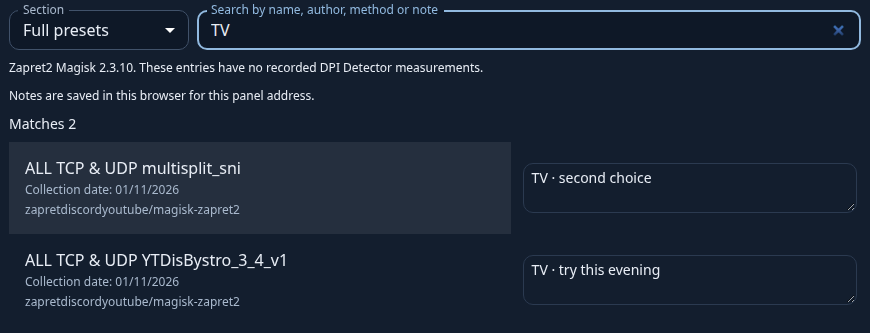
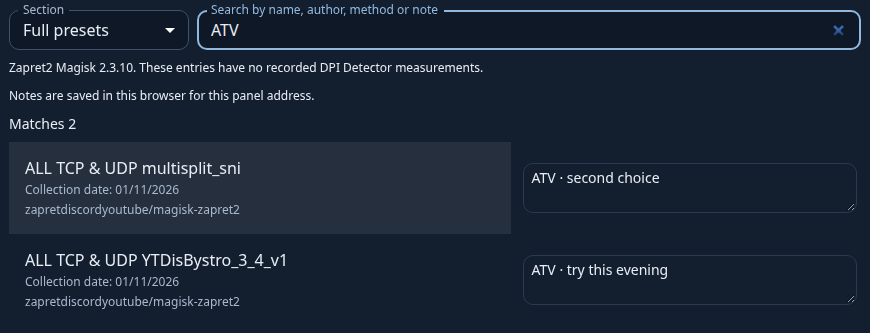
Simplify project navigation and use Android TV box examples
Keep all project and donation links, update both screenshot guides and synchronize the source inventories. [skip ci]

Changed region(s): [[0.5897, 0.7808, 0.7759, 0.8408], [0.5897, 0.5105, 0.7759, 0.5706], [0.2172, 0.0601, 0.2793, 0.1201]]

diff --git a/source/project/experimental/device-profiles/device-profiles-lab.html b/source/project/experimental/device-profiles/device-profiles-lab.html
@@ -45,7 +45,7 @@
     <details id="library-section" class="panel library-panel">
       <summary>Библиотека стратегий</summary>
       <p class="muted">Сохраните текущую стратегию, загрузите единый JSON-экспорт или выберите профиль из нашего каталога. У каждого сохранённого варианта свои ресурсы и auto.list. DNS остаётся общим для всех устройств.</p>
-      <label class="field-label">Название стратегии<input id="strategy-name" maxlength="64" placeholder="Например, для телевизора"></label>
+      <label class="field-label">Название стратегии<input id="strategy-name" maxlength="64" placeholder="Например, для Android-приставки"></label>
       <div class="runtime-actions"><button id="capture-current" type="button">Сохранить текущую стратегию</button></div>
       <label class="field-label">JSON-экспорт<input id="strategy-file" type="file" accept=".json,application/json"></label>
       <label class="checkbox-label"><input id="trust-lua" type="checkbox">Доверять Lua из выбранного файла или каталога</label>
@@ -81,7 +81,7 @@
         <details id="manual-section">
           <summary>Добавить вручную по IP или MAC</summary>
           <form id="manual-form" class="manual-form">
-            <label>Название<input id="manual-name" name="name" maxlength="64" required placeholder="Например, телевизор"></label>
+            <label>Название<input id="manual-name" name="name" maxlength="64" required placeholder="Например, Android-приставка"></label>
             <label>IP-адрес<input id="manual-ip" name="ip" autocomplete="off" spellcheck="false" placeholder="IPv4 или IPv6"></label>
             <label>MAC-адрес<input id="manual-mac" name="mac" autocomplete="off" spellcheck="false" placeholder="aa:bb:cc:dd:ee:ff"></label>
             <button type="submit">Добавить устройство</button>

diff --git a/README.en.md b/README.en.md
@@ -2,15 +2,22 @@
 
 [Русский](README.md)
 
-**Install** · [Download Build 100](https://github.com/madworldpay/nfqws2-asus-community/releases/tag/build100) · [Choose a package](DOWNLOADS.en.md) · [Quick start](QUICKSTART.en.md) · [ASUS / Entware](INSTALL.en.md) · [OpenWrt](OPENWRT.en.md) · [Changelog](CHANGELOG.md)
+[Download Build 100](https://github.com/madworldpay/nfqws2-asus-community/releases/tag/build100) · [Guides](#project-guides) · [Telegram chat](https://t.me/nfqws2AsusCommunityChat) · [Donate](#project-support)
+
+<details>
+<summary>All project links</summary>
+
+**Install** · [Choose a package](DOWNLOADS.en.md) · [Quick start](QUICKSTART.en.md) · [ASUS / Entware](INSTALL.en.md) · [OpenWrt](OPENWRT.en.md) · [Changelog](CHANGELOG.md)
 
 **Panel** · [Import](IMPORT.en.md) · [Strategies](PRESETS.en.md) · [Device profiles](docs/DEVICE-PROFILES.en.md) · [Generator (beta)](docs/LOCAL-STRATEGY-PICKER.en.md) · [SmartDNS](SMARTDNS.en.md) · [MTProto](#telegram-proxy-guide) · [DPI Detector](DPI-DETECTOR.en.md)
 
-**Guides** · [Compatibility](COMPATIBILITY.en.md) · [Updates](PACKAGE-UPDATES.en.md) · [Troubleshooting](DIAGNOSTICS.en.md) · [Screenshots](SCREENSHOTS.en.md#build100) · [All guides](#project-guides)
+**Guides** · [Compatibility](COMPATIBILITY.en.md) · [Updates](PACKAGE-UPDATES.en.md) · [Troubleshooting](DIAGNOSTICS.en.md) · [Screenshots](SCREENSHOTS.en.md#build100)
 
-**Contact** · [Telegram community chat](https://t.me/nfqws2AsusCommunityChat) · [Message Frank](https://t.me/Profy13) · [Report an issue](https://github.com/madworldpay/nfqws2-asus-community/issues)
+**Contact** · [Message Frank](https://t.me/Profy13) · [Report an issue](https://github.com/madworldpay/nfqws2-asus-community/issues)
 
 **Donate** · [YooMoney](https://yoomoney.ru/to/4100119670967911) · [Boosty](https://boosty.to/madworldpay/donate) · [TRON (USDT)](#wallet-tron) · [Ethereum](#wallet-ethereum) · [Solana](#wallet-solana) · [Bitcoin](#wallet-bitcoin)
+
+</details>
 
 ![NFQWS2 ASUS Community](images/nfqws2-asus-community.png)
 
@@ -23,7 +30,7 @@
 Start with **Import profile**: choose a ready-made cloud strategy, your own JSON
 or NFQWS2 text from Keenetic. Review its blocks, lists and blobs in the preview,
 save the changes and select home-network devices. NFQWS2 processes traffic on
-the router; your TV, phone or PC does not need a separate client.
+the router; your Android TV box, phone or PC does not need a separate client.
 
 Test video playback, seeking and voice calls separately.
 
@@ -36,7 +43,7 @@ or a native OpenWrt package. Installing the application itself does not require 
 
 **Strategy generator (beta).** Choose 2–10 runs and compare results in 1–6 columns or let them fit the window. The panel restores the original settings afterwards. Applying and exporting are separate actions. [Panel workflow](docs/LOCAL-STRATEGY-PICKER.en.md).
 
-**Different strategies for different devices.** Common remains the default. Devices lets you select a separate strategy for a TV, phone or PC, order priorities and review assignments before applying. [Setup guide](docs/DEVICE-PROFILES.en.md) · [real screenshots](SCREENSHOTS.en.md#build99-device-profiles). The device profiles page currently uses Russian labels.
+**Different strategies for different devices.** Common remains the default. Devices lets you select a separate strategy for an Android TV box, phone or PC, order priorities and review assignments before applying. [Setup guide](docs/DEVICE-PROFILES.en.md) · [real screenshots](SCREENSHOTS.en.md#build99-device-profiles). The device profiles page currently uses Russian labels.
 
 **The built-in DPI Detector helps check the result.** Repeat the same tests before and after changing a strategy, save TXT to your PC or phone and check the actual services. [How to use it](DPI-DETECTOR.en.md) · [large real comparison screenshots](docs/DETECTOR-COMPARISON.en.md).
 
@@ -168,11 +175,11 @@ Mode supplies domain lists to the main TCP and QUIC blocks. Separate UDP blocks,
 | “Process traffic” | Devices covered |
 | --- | --- |
 | **All devices** | All clients whose traffic passes through the configured router |
-| **Only listed devices** | For example, only the TV and phone whose local IP addresses you added |
+| **Only listed devices** | For example, only the Android TV box and phone whose local IP addresses you added |
 | **All except listed devices** | All other clients; added IP addresses are excluded from processing |
 
-**Example:** `List` + **Only listed devices** + the TV's IP address —
-the TV gets DPI processing for listed domains; other devices use the network without NFQWS2 processing.
+**Example:** `List` + **Only listed devices** + the Android TV box’s IP address —
+the Android TV box gets DPI processing for listed domains; other devices use the network without NFQWS2 processing.
 
 You can enter individual IP addresses or a subnet. Separate addresses with spaces;
 reserve IP addresses in DHCP for selected devices. IPv6 is enabled and selected separately.
@@ -298,6 +305,8 @@ for a reproducible bug report. You can send settings and diagnostics to the deve
 after reviewing them in the panel preview.
 
 An independent community port. Packages are free, and participation is voluntary.
+
+<a id="project-support"></a>
 
 ## Support the project
 

diff --git a/source/documentation/README.en.md b/source/documentation/README.en.md
@@ -2,15 +2,22 @@
 
 [Русский](README.md)
 
-**Install** · [Download Build 100](https://github.com/madworldpay/nfqws2-asus-community/releases/tag/build100) · [Choose a package](DOWNLOADS.en.md) · [Quick start](QUICKSTART.en.md) · [ASUS / Entware](INSTALL.en.md) · [OpenWrt](OPENWRT.en.md) · [Changelog](CHANGELOG.md)
+[Download Build 100](https://github.com/madworldpay/nfqws2-asus-community/releases/tag/build100) · [Guides](#project-guides) · [Telegram chat](https://t.me/nfqws2AsusCommunityChat) · [Donate](#project-support)
+
+<details>
+<summary>All project links</summary>
+
+**Install** · [Choose a package](DOWNLOADS.en.md) · [Quick start](QUICKSTART.en.md) · [ASUS / Entware](INSTALL.en.md) · [OpenWrt](OPENWRT.en.md) · [Changelog](CHANGELOG.md)
 
 **Panel** · [Import](IMPORT.en.md) · [Strategies](PRESETS.en.md) · [Device profiles](docs/DEVICE-PROFILES.en.md) · [Generator (beta)](docs/LOCAL-STRATEGY-PICKER.en.md) · [SmartDNS](SMARTDNS.en.md) · [MTProto](#telegram-proxy-guide) · [DPI Detector](DPI-DETECTOR.en.md)
 
-**Guides** · [Compatibility](COMPATIBILITY.en.md) · [Updates](PACKAGE-UPDATES.en.md) · [Troubleshooting](DIAGNOSTICS.en.md) · [Screenshots](SCREENSHOTS.en.md#build100) · [All guides](#project-guides)
+**Guides** · [Compatibility](COMPATIBILITY.en.md) · [Updates](PACKAGE-UPDATES.en.md) · [Troubleshooting](DIAGNOSTICS.en.md) · [Screenshots](SCREENSHOTS.en.md#build100)
 
-**Contact** · [Telegram community chat](https://t.me/nfqws2AsusCommunityChat) · [Message Frank](https://t.me/Profy13) · [Report an issue](https://github.com/madworldpay/nfqws2-asus-community/issues)
+**Contact** · [Message Frank](https://t.me/Profy13) · [Report an issue](https://github.com/madworldpay/nfqws2-asus-community/issues)
 
 **Donate** · [YooMoney](https://yoomoney.ru/to/4100119670967911) · [Boosty](https://boosty.to/madworldpay/donate) · [TRON (USDT)](#wallet-tron) · [Ethereum](#wallet-ethereum) · [Solana](#wallet-solana) · [Bitcoin](#wallet-bitcoin)
+
+</details>
 
 ![NFQWS2 ASUS Community](images/nfqws2-asus-community.png)
 
@@ -23,7 +30,7 @@
 Start with **Import profile**: choose a ready-made cloud strategy, your own JSON
 or NFQWS2 text from Keenetic. Review its blocks, lists and blobs in the preview,
 save the changes and select home-network devices. NFQWS2 processes traffic on
-the router; your TV, phone or PC does not need a separate client.
+the router; your Android TV box, phone or PC does not need a separate client.
 
 Test video playback, seeking and voice calls separately.
 
@@ -36,7 +43,7 @@ or a native OpenWrt package. Installing the application itself does not require 
 
 **Strategy generator (beta).** Choose 2–10 runs and compare results in 1–6 columns or let them fit the window. The panel restores the original settings afterwards. Applying and exporting are separate actions. [Panel workflow](docs/LOCAL-STRATEGY-PICKER.en.md).
 
-**Different strategies for different devices.** Common remains the default. Devices lets you select a separate strategy for a TV, phone or PC, order priorities and review assignments before applying. [Setup guide](docs/DEVICE-PROFILES.en.md) · [real screenshots](SCREENSHOTS.en.md#build99-device-profiles). The device profiles page currently uses Russian labels.
+**Different strategies for different devices.** Common remains the default. Devices lets you select a separate strategy for an Android TV box, phone or PC, order priorities and review assignments before applying. [Setup guide](docs/DEVICE-PROFILES.en.md) · [real screenshots](SCREENSHOTS.en.md#build99-device-profiles). The device profiles page currently uses Russian labels.
 
 **The built-in DPI Detector helps check the result.** Repeat the same tests before and after changing a strategy, save TXT to your PC or phone and check the actual services. [How to use it](DPI-DETECTOR.en.md) · [large real comparison screenshots](docs/DETECTOR-COMPARISON.en.md).
 
@@ -168,11 +175,11 @@ Mode supplies domain lists to the main TCP and QUIC blocks. Separate UDP blocks,
 | “Process traffic” | Devices covered |
 | --- | --- |
 | **All devices** | All clients whose traffic passes through the configured router |
-| **Only listed devices** | For example, only the TV and phone whose local IP addresses you added |
+| **Only listed devices** | For example, only the Android TV box and phone whose local IP addresses you added |
 | **All except listed devices** | All other clients; added IP addresses are excluded from processing |
 
-**Example:** `List` + **Only listed devices** + the TV's IP address —
-the TV gets DPI processing for listed domains; other devices use the network without NFQWS2 processing.
+**Example:** `List` + **Only listed devices** + the Android TV box’s IP address —
+the Android TV box gets DPI processing for listed domains; other devices use the network without NFQWS2 processing.
 
 You can enter individual IP addresses or a subnet. Separate addresses with spaces;
 reserve IP addresses in DHCP for selected devices. IPv6 is enabled and selected separately.
@@ -298,6 +305,8 @@ for a reproducible bug report. You can send settings and diagnostics to the deve
 after reviewing them in the panel preview.
 
 An independent community port. Packages are free, and participation is voluntary.
+
+<a id="project-support"></a>
 
 ## Support the project
 

diff --git a/SCREENSHOTS.md b/SCREENSHOTS.md
@@ -10,7 +10,7 @@
 
 ## Build 100
 
-В примере из библиотеки поиск по слову «Телевизор» нашёл две стратегии с личными заметками.
+Поиск по «ATV» находит две стратегии с заметками для Android-приставки.
 
 ![Поиск по личным заметкам в импорте](images/screenshots/build100-import-notes-ru.png)
 
@@ -60,7 +60,7 @@
 
 **Общий режим** остаётся по умолчанию. В **«По устройствам»** можно назначить стратегии отдельным клиентам, менять приоритеты и использовать текущую или стоковую стратегию. Библиотека добавляет собственные копии, JSON с ресурсами и профили каталога. DNS остаётся общим. [Пошаговая инструкция и лимиты](docs/DEVICE-PROFILES.md).
 
-На первом снимке — реальный общий режим. На примере с телевизором и телефоном показан **несохранённый черновик** с условными названиями и адресами. Предпросмотр проверен, но «Сохранить черновик» и «Применить сохранённый режим» для примера не нажимались: рабочий режим остался общим, служба — выключенной. Это пример интерфейса, а не доказательство подключения этих устройств или результата обхода.
+На первом снимке — реальный общий режим. На примере с двумя устройствами показан **несохранённый черновик** с условными названиями и адресами. Предпросмотр проверен, но «Сохранить черновик» и «Применить сохранённый режим» для примера не нажимались: рабочий режим остался общим, служба — выключенной. Это пример интерфейса, а не доказательство подключения этих устройств или результата обхода.
 
 <details>
 <summary>Показать общий режим и библиотеку стратегий</summary>
@@ -74,7 +74,7 @@
 <details>
 <summary>Показать разные стратегии, приоритеты и предпросмотр примера</summary>
 
-[![Build 99: несохранённый пример стратегий для телевизора и телефона](images/screenshots/build99-device-profiles-draft-ru.jpg)](images/screenshots/build99-device-profiles-draft-ru.jpg)
+[![Build 99: несохранённый пример стратегий для двух устройств](images/screenshots/build99-device-profiles-draft-ru.jpg)](images/screenshots/build99-device-profiles-draft-ru.jpg)
 
 [![Build 99: предпросмотр назначений без применения](images/screenshots/build99-device-profiles-preview-ru.jpg)](images/screenshots/build99-device-profiles-preview-ru.jpg)
 

diff --git a/source/documentation/SCREENSHOTS.md b/source/documentation/SCREENSHOTS.md
@@ -10,7 +10,7 @@
 
 ## Build 100
 
-В примере из библиотеки поиск по слову «Телевизор» нашёл две стратегии с личными заметками.
+Поиск по «ATV» находит две стратегии с заметками для Android-приставки.
 
 ![Поиск по личным заметкам в импорте](images/screenshots/build100-import-notes-ru.png)
 
@@ -60,7 +60,7 @@
 
 **Общий режим** остаётся по умолчанию. В **«По устройствам»** можно назначить стратегии отдельным клиентам, менять приоритеты и использовать текущую или стоковую стратегию. Библиотека добавляет собственные копии, JSON с ресурсами и профили каталога. DNS остаётся общим. [Пошаговая инструкция и лимиты](docs/DEVICE-PROFILES.md).
 
-На первом снимке — реальный общий режим. На примере с телевизором и телефоном показан **несохранённый черновик** с условными названиями и адресами. Предпросмотр проверен, но «Сохранить черновик» и «Применить сохранённый режим» для примера не нажимались: рабочий режим остался общим, служба — выключенной. Это пример интерфейса, а не доказательство подключения этих устройств или результата обхода.
+На первом снимке — реальный общий режим. На примере с двумя устройствами показан **несохранённый черновик** с условными названиями и адресами. Предпросмотр проверен, но «Сохранить черновик» и «Применить сохранённый режим» для примера не нажимались: рабочий режим остался общим, служба — выключенной. Это пример интерфейса, а не доказательство подключения этих устройств или результата обхода.
 
 <details>
 <summary>Показать общий режим и библиотеку стратегий</summary>
@@ -74,7 +74,7 @@
 <details>
 <summary>Показать разные стратегии, приоритеты и предпросмотр примера</summary>
 
-[![Build 99: несохранённый пример стратегий для телевизора и телефона](images/screenshots/build99-device-profiles-draft-ru.jpg)](images/screenshots/build99-device-profiles-draft-ru.jpg)
+[![Build 99: несохранённый пример стратегий для двух устройств](images/screenshots/build99-device-profiles-draft-ru.jpg)](images/screenshots/build99-device-profiles-draft-ru.jpg)
 
 [![Build 99: предпросмотр назначений без применения](images/screenshots/build99-device-profiles-preview-ru.jpg)](images/screenshots/build99-device-profiles-preview-ru.jpg)
 

diff --git a/SCREENSHOTS.en.md b/SCREENSHOTS.en.md
@@ -10,7 +10,7 @@ Expand a screenshot and click it for full size. Static images have no animation;
 
 ## Build 100
 
-Searching for “TV” finds two strategies with matching personal notes in the library.
+Searching for “ATV” finds two strategies with personal notes for an Android TV box.
 
 ![Searching personal notes in the import library](images/screenshots/build100-import-notes-en.png)
 
@@ -58,7 +58,7 @@ Devices appears in the main tab row. Swipe that row horizontally on narrow scree
 
 **Common** remains the default. **Per device** assigns strategies to selected clients with ordered priorities; current and stock strategies are available. The library adds separate copies, JSON with resources and signed catalog profiles. DNS remains shared. [Steps and limits](docs/DEVICE-PROFILES.en.md). The device profiles page currently uses Russian labels.
 
-The first capture shows the actual common mode. TV and phone cards are an **unsaved example** with demonstration names and addresses. Preview was checked, but the example was neither saved nor applied: the active mode remained Common and the service remained stopped. It illustrates controls, not measured traffic from these example devices.
+The first capture shows the actual common mode. The two device cards are an **unsaved example** with demonstration names and addresses. Preview was checked, but the example was neither saved nor applied: the active mode remained Common and the service remained stopped. It illustrates controls, not measured traffic from these example devices.
 
 <details>
 <summary>Show common mode and strategy library — Russian UI</summary>
@@ -72,7 +72,7 @@ The first capture shows the actual common mode. TV and phone cards are an **unsa
 <details>
 <summary>Show per-device strategy cards and preview — Russian UI</summary>
 
-[![Build 99 unsaved TV and phone example — Russian UI](images/screenshots/build99-device-profiles-draft-ru.jpg)](images/screenshots/build99-device-profiles-draft-ru.jpg)
+[![Build 99 unsaved two-device example — Russian UI](images/screenshots/build99-device-profiles-draft-ru.jpg)](images/screenshots/build99-device-profiles-draft-ru.jpg)
 
 [![Build 99 assignment preview without applying — Russian UI](images/screenshots/build99-device-profiles-preview-ru.jpg)](images/screenshots/build99-device-profiles-preview-ru.jpg)
 

diff --git a/source/documentation/SCREENSHOTS.en.md b/source/documentation/SCREENSHOTS.en.md
@@ -10,7 +10,7 @@ Expand a screenshot and click it for full size. Static images have no animation;
 
 ## Build 100
 
-Searching for “TV” finds two strategies with matching personal notes in the library.
+Searching for “ATV” finds two strategies with personal notes for an Android TV box.
 
 ![Searching personal notes in the import library](images/screenshots/build100-import-notes-en.png)
 
@@ -58,7 +58,7 @@ Devices appears in the main tab row. Swipe that row horizontally on narrow scree
 
 **Common** remains the default. **Per device** assigns strategies to selected clients with ordered priorities; current and stock strategies are available. The library adds separate copies, JSON with resources and signed catalog profiles. DNS remains shared. [Steps and limits](docs/DEVICE-PROFILES.en.md). The device profiles page currently uses Russian labels.
 
-The first capture shows the actual common mode. TV and phone cards are an **unsaved example** with demonstration names and addresses. Preview was checked, but the example was neither saved nor applied: the active mode remained Common and the service remained stopped. It illustrates controls, not measured traffic from these example devices.
+The first capture shows the actual common mode. The two device cards are an **unsaved example** with demonstration names and addresses. Preview was checked, but the example was neither saved nor applied: the active mode remained Common and the service remained stopped. It illustrates controls, not measured traffic from these example devices.
 
 <details>
 <summary>Show common mode and strategy library — Russian UI</summary>
@@ -72,7 +72,7 @@ The first capture shows the actual common mode. TV and phone cards are an **unsa
 <details>
 <summary>Show per-device strategy cards and preview — Russian UI</summary>
 
-[![Build 99 unsaved TV and phone example — Russian UI](images/screenshots/build99-device-profiles-draft-ru.jpg)](images/screenshots/build99-device-profiles-draft-ru.jpg)
+[![Build 99 unsaved two-device example — Russian UI](images/screenshots/build99-device-profiles-draft-ru.jpg)](images/screenshots/build99-device-profiles-draft-ru.jpg)
 
 [![Build 99 assignment preview without applying — Russian UI](images/screenshots/build99-device-profiles-preview-ru.jpg)](images/screenshots/build99-device-profiles-preview-ru.jpg)
 

diff --git a/USAGE.md b/USAGE.md
@@ -73,8 +73,8 @@
 
 Выбранный режим не отменяет настройки TCP/UDP-портов, протоколов и фильтры стратегии.
 Доменные списки режима добавляются к основным TCP и QUIC-блокам. Отдельные UDP-блоки, пользовательская стратегия и обработка IP-списков используют свои фильтры и не ограничиваются этим выбором автоматически.
-**All не означает все устройства:** при выборе только телевизора этот режим
-применяется к подходящему трафику телевизора.
+**All не означает все устройства:** при выборе только Android-приставки этот режим
+применяется к подходящему трафику приставки.
 
 ## Устройства и трафик самого роутера
 
@@ -86,7 +86,7 @@
 | **Только указанных устройств** | Обработка только добавленных IP или подсетей; остальные проходят без обработки NFQWS2 |
 | **Всех, кроме указанных устройств** | Добавленные IP или подсети исключаются; остальные обрабатываются |
 
-Можно добавить телефон, телевизор, ПК, приставку или другое устройство по его
+Можно добавить телефон, Android-приставку, ПК или другое устройство по его
 локальному IP. Например, режим **«Только указанных устройств»** и два адреса
 включат обработку только для этих двух устройств. В режиме исключений те же
 адреса, наоборот, останутся без обработки NFQWS2. Доступ в интернет этим не отключается.

diff --git a/source/documentation/USAGE.md b/source/documentation/USAGE.md
@@ -73,8 +73,8 @@
 
 Выбранный режим не отменяет настройки TCP/UDP-портов, протоколов и фильтры стратегии.
 Доменные списки режима добавляются к основным TCP и QUIC-блокам. Отдельные UDP-блоки, пользовательская стратегия и обработка IP-списков используют свои фильтры и не ограничиваются этим выбором автоматически.
-**All не означает все устройства:** при выборе только телевизора этот режим
-применяется к подходящему трафику телевизора.
+**All не означает все устройства:** при выборе только Android-приставки этот режим
+применяется к подходящему трафику приставки.
 
 ## Устройства и трафик самого роутера
 
@@ -86,7 +86,7 @@
 | **Только указанных устройств** | Обработка только добавленных IP или подсетей; остальные проходят без обработки NFQWS2 |
 | **Всех, кроме указанных устройств** | Добавленные IP или подсети исключаются; остальные обрабатываются |
 
-Можно добавить телефон, телевизор, ПК, приставку или другое устройство по его
+Можно добавить телефон, Android-приставку, ПК или другое устройство по его
 локальному IP. Например, режим **«Только указанных устройств»** и два адреса
 включат обработку только для этих двух устройств. В режиме исключений те же
 адреса, наоборот, останутся без обработки NFQWS2. Доступ в интернет этим не отключается.

diff --git a/USAGE.en.md b/USAGE.en.md
@@ -73,8 +73,8 @@ does not guarantee that every block will be recognized.
 
 The selected mode does not override TCP/UDP port settings, protocols, or strategy filters.
 Mode supplies domain lists to the main TCP and QUIC blocks. Separate UDP blocks, the custom strategy and IP-list processing use their own filters and are not automatically restricted by this choice.
-**All does not mean all devices:** if only a TV is selected, this mode
-applies to the TV's matching traffic.
+**All does not mean all devices:** if only an Android TV box is selected, this mode
+applies to the box’s matching traffic.
 
 ## Devices and the router's own traffic
 
@@ -86,7 +86,7 @@ In **Process traffic**, choose which devices NFQWS2 works for:
 | **Only listed devices** | Processes only the added IP addresses or subnets; other devices pass through without NFQWS2 processing |
 | **All except listed devices** | Excludes the added IP addresses or subnets; other devices are processed |
 
-You can add a phone, TV, PC, set-top box, or another device by its
+You can add a phone, Android TV box, PC, or another device by its
 local IP address. For example, **Only listed devices** with two addresses
 enables processing only for those two devices. In exclusion mode, the same
 addresses instead remain without NFQWS2 processing. This does not disable their internet access.
